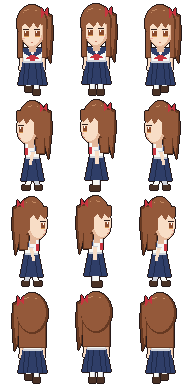
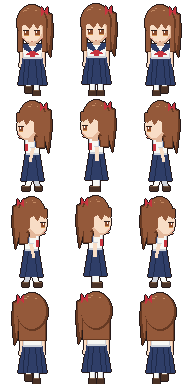
歩行グラフィックを、マップに合わせてやや上から見下ろす角度で描き直す（頭頂の髪を厚く、顔を下寄りに、胴と脚を詰め、靴の甲を見せる）
Claude-Session: https://claude.ai/code/session_017gxvkc2TW4xYgG5MuSL3N1

diff --git a/files.js b/files.js
@@ -2,7 +2,7 @@
 // マップなどを足したら scripts に1行足す（順番どおりに読み込む。main.js は最後）。
 // 版の番号 v は tools/stamp.py が書き換える。
 window.FILES = {
-  v: '20261127022916',
+  v: '20261127023249',
   scripts: [
     'engine/core.js',
     'engine/world.js',

diff --git a/tools/sprites/make_chars.py b/tools/sprites/make_chars.py
@@ -1,5 +1,5 @@
 """キャラクターの歩行グラフィックを一から描いて img/chars/*.png に書き出す（1コマ64×96px、等倍表示）。
-比率は参考のドットを測って合わせた：頭の高さは全身の約4割・頭の幅は肩幅くらい、胴は短め、スカートは裾が広がり、脚は短く靴は太い。
+比率は参考のドットを測って合わせた。マップに合わせて、やや上から見下ろす角度で描く（頭頂の髪が厚く、顔と目は頭の下寄り、首はほぼ見えず、胴と脚は縦に詰まり、靴は甲が見える）。
 
 使い方：python3 tools/sprites/make_chars.py
 横3コマ（左足・立ち・右足）×縦4段（下・左・右・上）。
@@ -32,7 +32,9 @@ class Pen:
         return self.pal[k]
 
     def t(self, x, y):
-        return (round(CX + x * self.k * KX), round(y * self.k))
+        if self.k != 1:  # 頭
+            return (round(CX + x * HEAD_KX), round(y * HEAD_KY))
+        return (round(CX + x * KX), round(body_y(y)))
 
     def b(self, box):
         x0, y0, x1, y1 = box
@@ -66,8 +68,26 @@ class Pen:
 
 
 LIFT = {0: (3, 0), 1: (0, 0), 2: (0, 3)}  # コマごとに（左足、右足）を上げる量
-KX = 0.8  # 横幅の倍率（小さいほど細長い）
-HEAD_K = 1.27  # 頭の倍率（参考の比率：頭の高さは全身の約4割、頭の幅は肩幅と同じくらい）
+KX = 0.8  # 胴から下の横幅の倍率（小さいほど細長い）
+HEAD_KX, HEAD_KY = 1.0, 1.12  # 頭の倍率（横・縦）
+HEAD_K = 1.12
+# やや上から見下ろす角度：胴から下の縦位置を、参考を測った比率に合わせて詰める
+# （あご≒全身の39%、胴は短く、スカートは55〜83%、靴は87〜99%）
+BODY_Y = [(0, 0), (44, 40), (56, 52), (80, 80), (91, 92), (96, 96)]
+
+
+def body_y(y):
+    for (a, fa), (b, fb) in zip(BODY_Y, BODY_Y[1:]):
+        if y <= b:
+            return fa + (fb - fa) * (y - a) / (b - a)
+    return y
+
+
+def shoe(p, box):
+    """靴：上から見下ろすので、甲（上の面）を明るく見せる"""
+    p.rect(box, 'B')
+    x0, y0, x1, y1 = box
+    p.line([(x0 + 1, y0), (x1 - 1, y0)], 'b')  # 頭の倍率（参考の比率：頭の高さは全身の約4割、頭の幅は肩幅と同じくらい）
 
 
 # ---------------- 脚（短め、靴は太く） ----------------
@@ -76,13 +96,13 @@ def legs_front(p, ch, step):
     if ch['gender'] == 'boy':
         p.rect((-9, 56, -1, 84 - la), 'P', 'q')
         p.rect((1, 56, 9, 84 - ra), 'P', 'q')
-        p.rect((-10, 84 - la, -1, 91 - la), 'B')
-        p.rect((1, 84 - ra, 10, 91 - ra), 'B')
+        shoe(p, (-10, 84 - la, -1, 91 - la))
+        shoe(p, (1, 84 - ra, 10, 91 - ra))
     else:
         p.rect((-8, 78, -2, 86 - la), 'W', 'w')
         p.rect((2, 78, 8, 86 - ra), 'W', 'w')
-        p.rect((-9, 86 - la, -1, 91 - la), 'B')
-        p.rect((1, 86 - ra, 9, 91 - ra), 'B')
+        shoe(p, (-9, 86 - la, -1, 91 - la))
+        shoe(p, (1, 86 - ra, 9, 91 - ra))
 
 
 def legs_side(p, ch, step):
@@ -90,22 +110,22 @@ def legs_side(p, ch, step):
     if step == 1:
         if boy:
             p.rect((-5, 56, 5, 84), 'P', 'q')
-            p.rect((-9, 84, 5, 91), 'B')
+            shoe(p, (-9, 84, 5, 91))
         else:
             p.rect((-4, 78, 4, 86), 'W', 'w')
-            p.rect((-8, 86, 4, 91), 'B')
+            shoe(p, (-8, 86, 4, 91))
         return
     back, front = ('q', 'P') if step == 0 else ('P', 'q')
     if boy:
         p.poly([(-2, 56), (5, 56), (10, 84), (4, 84)], back)
-        p.rect((4, 84, 13, 90), 'B')
+        shoe(p, (4, 84, 13, 90))
         p.poly([(-5, 56), (2, 56), (-4, 84), (-10, 84)], front)
-        p.rect((-14, 84, -4, 90), 'B')
+        shoe(p, (-14, 84, -4, 90))
     else:
         p.poly([(1, 78), (6, 78), (9, 86), (4, 86)], 'w')
-        p.rect((4, 86, 11, 90), 'B')
+        shoe(p, (4, 86, 11, 90))
         p.poly([(-5, 78), (0, 78), (-4, 86), (-9, 86)], 'W')
-        p.rect((-13, 86, -4, 90), 'B')
+        shoe(p, (-13, 86, -4, 90))
 
 
 # ---------------- 胴（短め） ----------------
@@ -167,33 +187,33 @@ def head_front(p, ch):
         p.rect((10, 14, 14, 42), 'H', 'h')
         p.poly([(12, 6), (19, 9), (20, 24), (18, 46), (15, 40), (13, 16)], 'h')
         p.poly([(12, 7), (18, 10), (18, 24), (16, 40), (14, 16)], 'H')
-    p.ell((-15, 1, 15, 30), 'H', 'h')
+    p.ell((-15, 1, 15, 33), 'H', 'h')
     if boy:  # とがった髪
         p.poly([(-11, 6), (-15, -1), (-4, 3)], 'H')
         p.poly([(-4, 3), (0, -3), (5, 3)], 'H')
         p.poly([(5, 3), (15, -1), (11, 7)], 'H')
         p.poly([(-15, 13), (-19, 19), (-14, 22)], 'H')
         p.poly([(15, 13), (19, 19), (14, 22)], 'H')
-    p.rect((-3, 31, 3, 37), 's')
-    p.ell((-11, 9, 11, 34), 'S', 's')
+    p.rect((-3, 33, 3, 37), 's')
+    p.ell((-11, 13, 11, 35), 'S', 's')
     if boy:
-        p.poly([(-12, 9), (12, 9), (12, 19), (9, 15), (6, 20), (3, 14), (0, 20), (-3, 14), (-6, 20), (-9, 15), (-12, 19)], 'H')
-        p.rect((-13, 12, -11, 24), 'H')
-        p.rect((11, 12, 13, 24), 'H')
+        p.poly([(-12, 12), (12, 12), (12, 22), (9, 18), (6, 23), (3, 17), (0, 23), (-3, 17), (-6, 23), (-9, 18), (-12, 22)], 'H')
+        p.rect((-13, 14, -11, 27), 'H')
+        p.rect((11, 14, 13, 27), 'H')
         p.px([(-8, 5), (-7, 5), (-6, 5), (-5, 4), (-4, 4), (-9, 6)], 'L')
-        p.px([(-1, 29), (0, 29)], 'm')
+        p.px([(-1, 32), (0, 32)], 'm')
     else:
-        p.poly([(-12, 9), (12, 9), (12, 17), (8, 15), (5, 18), (1, 14), (-3, 18), (-7, 15), (-12, 17)], 'H')
-        p.rect((-13, 12, -11, 26), 'H')
-        p.rect((11, 12, 13, 26), 'H')
+        p.poly([(-12, 12), (12, 12), (12, 20), (8, 18), (5, 21), (1, 17), (-3, 21), (-7, 18), (-12, 20)], 'H')
+        p.rect((-13, 14, -11, 30), 'H')
+        p.rect((11, 14, 13, 30), 'H')
         p.px([(-8, 5), (-7, 5), (-6, 5), (-5, 4), (-4, 4), (-9, 6), (3, 5), (4, 5)], 'L')
         for x0 in (-8, 3):  # 大きな目（まつげ・瞳・光）
-            p.rect((x0 - 1, 20, x0 + 4, 20), 'E')
-            p.rect((x0, 21, x0 + 4, 25), 'I')
-            p.rect((x0, 25, x0 + 4, 25), 'J')
-            p.px([(x0 + 1, 21), (x0 + 1, 22)], 'e')
-        p.px([(-9, 27), (-8, 27), (8, 27), (9, 27)], 'p')
-        p.px([(-1, 30), (0, 30)], 'm')
+            p.rect((x0 - 1, 23, x0 + 4, 23), 'E')
+            p.rect((x0, 24, x0 + 4, 28), 'I')
+            p.rect((x0, 28, x0 + 4, 28), 'J')
+            p.px([(x0 + 1, 24), (x0 + 1, 25)], 'e')
+        p.px([(-9, 30), (-8, 30), (8, 30), (9, 30)], 'p')
+        p.px([(-1, 33), (0, 33)], 'm')
         p.poly([(9, 3), (12, 6), (15, 3), (15, 9), (12, 6), (9, 10)], 'R')
 
 
@@ -205,40 +225,40 @@ def head_side(p, ch):
         p.poly([(2, 12), (12, 12), (11, 41), (5, 41)], 'H')
         p.poly([(11, 6), (18, 9), (19, 24), (16, 46), (13, 36)], 'h')
         p.poly([(11, 7), (17, 10), (17, 24), (15, 42), (13, 34)], 'H')
-    p.ell((-13, 1, 14, 31), 'H', 'h')
+    p.ell((-13, 1, 14, 33), 'H', 'h')
     if boy:
         p.poly([(4, 3), (15, -1), (11, 8)], 'H')
         p.poly([(10, 11), (18, 10), (12, 18)], 'H')
         p.poly([(-8, 4), (-6, -2), (0, 3)], 'H')
         p.poly([(8, 23), (14, 26), (8, 29)], 'H')
-    p.rect((-4, 31, 1, 37), 's')
-    p.ell((-15, 10, 4, 34), 'S', 's')
-    p.poly([(2, 9), (14, 9), (14, 28), (7, 31), (2, 26)], 'H')
+    p.rect((-4, 33, 1, 37), 's')
+    p.ell((-15, 13, 4, 35), 'S', 's')
+    p.poly([(2, 11), (14, 11), (14, 30), (7, 33), (2, 28)], 'H')
     if boy:
-        p.poly([(-15, 9), (3, 9), (2, 18), (-1, 13), (-4, 19), (-7, 13), (-10, 18), (-13, 14), (-15, 16)], 'H')
+        p.poly([(-15, 12), (3, 12), (2, 21), (-1, 16), (-4, 22), (-7, 16), (-10, 21), (-13, 17), (-15, 19)], 'H')
         p.px([(-4, 5), (-3, 5), (-2, 5), (-1, 4)], 'L')
-        p.px([(-13, 29), (-12, 29)], 'm')
+        p.px([(-13, 32), (-12, 32)], 'm')
     else:
-        p.poly([(-15, 9), (3, 9), (2, 17), (-2, 14), (-6, 18), (-9, 14), (-13, 17), (-15, 16)], 'H')
+        p.poly([(-15, 12), (3, 12), (2, 20), (-2, 17), (-6, 21), (-9, 17), (-13, 20), (-15, 19)], 'H')
         p.px([(-4, 5), (-3, 5), (-2, 5), (-1, 4), (5, 5)], 'L')
-        p.rect((-14, 20, -9, 20), 'E')
-        p.rect((-13, 21, -10, 25), 'I')
-        p.rect((-13, 25, -10, 25), 'J')
-        p.px([(-12, 21), (-12, 22)], 'e')
-        p.px([(-14, 27), (-13, 27)], 'p')
-        p.px([(-13, 30), (-12, 30)], 'm')
+        p.rect((-14, 23, -9, 23), 'E')
+        p.rect((-13, 24, -10, 28), 'I')
+        p.rect((-13, 28, -10, 28), 'J')
+        p.px([(-12, 24), (-12, 25)], 'e')
+        p.px([(-14, 30), (-13, 30)], 'p')
+        p.px([(-13, 33), (-12, 33)], 'm')
         p.poly([(8, 3), (11, 6), (14, 3), (14, 8), (11, 6), (8, 9)], 'R')
 
 
 def head_back(p, ch):
     p.k = HEAD_K
     boy = ch['gender'] == 'boy'
-    p.rect((-3, 28, 3, 37), 's')
+    p.rect((-3, 32, 3, 37), 's')
     if not boy:
         p.rect((-13, 16, 13, 43), 'H', 'h')
         p.poly([(-12, 6), (-19, 9), (-20, 24), (-18, 46), (-15, 40), (-13, 16)], 'h')
         p.poly([(-12, 7), (-18, 10), (-18, 24), (-16, 40), (-14, 16)], 'H')
-    p.ell((-15, 1, 15, 32), 'H', 'h')
+    p.ell((-15, 1, 15, 34), 'H', 'h')
     if boy:
         p.poly([(-11, 6), (-15, -1), (-4, 3)], 'H')
         p.poly([(-4, 3), (0, -3), (5, 3)], 'H')
@@ -299,7 +319,7 @@ CHARS = {
         'pal': {
             'H': '#3a3c44', 'h': '#25272d', 'L': '#6a6e7a',
             'S': '#f7dcc4', 's': '#e2b597', 'm': '#c9826e',
-            'W': '#f7f7f3', 'w': '#cdd0d8', 'P': '#2f3242', 'q': '#1f2130', 'B': '#2a2220',
+            'W': '#f7f7f3', 'w': '#cdd0d8', 'P': '#2f3242', 'q': '#1f2130', 'B': '#2a2220', 'b': '#5a4a42',
         },
     },
     'yui': {
@@ -309,7 +329,7 @@ CHARS = {
             'S': '#f8ddc6', 's': '#e4b89b', 'p': '#f4aa9e', 'm': '#c9806c',
             'E': '#2e1d1a', 'I': '#8a4a2c', 'J': '#d4924f', 'e': '#ffffff',
             'W': '#f7f7f3', 'w': '#d0d3da', 'N': '#2f3e68', 'R': '#c8343f',
-            'K': '#2f3e68', 'k': '#1f2a4a', 'B': '#4a3226',
+            'K': '#2f3e68', 'k': '#1f2a4a', 'B': '#4a3226', 'b': '#7a5a44',
         },
     },
 }

diff --git a/CLAUDE.md b/CLAUDE.md
@@ -10,7 +10,7 @@
 - 校舎（廊下8枚と部屋の型）は `tools/gen_school.py` で生成する。生成した `data/maps/school_*.js` は直接直さず、スクリプトを直して作り直す。お話のイベントは `data/story.js` に `G.addEvents` で足す（`at: '扉の名前'` で位置を決められる）。見取り図の施設名のうち学校が特定されそうな名前は一般的な名前に変える
 - 参考にした市販ゲームのファイル（データ・画像・音・シナリオ）はこのリポジトリに入れない
 - タイル素材（ドット絵世界）は二次配布禁止。元のPNGは入れず、`tools/encode_tileset.py` で変換した `data/tilesets/*.js` だけを入れる。タイトル画面の著作権表示（system.js の credits）は消さない
-- キャラの歩行グラフィックは `tools/sprites/make_chars.py` で一から描いている（1コマ64×96px・等倍。比率は参考のドットを測って合わせる（頭の高さは全身の約4割・頭の幅は肩幅くらい、胴は短め、脚は短く靴は太い）。見た目の印象で描かず、参考があれば必ず測ってから描く。顔・髪・目・胴などの部品を図形で描き、輪郭は自動。色はパレット）。男子は目を描かない、女子は大きな目、という描き分けが好み。直したらこれを動かして `img/chars/*.png` を作り直す。参考素材は写さない
+- キャラの歩行グラフィックは `tools/sprites/make_chars.py` で一から描いている（1コマ64×96px・等倍。比率は参考のドットを測って合わせる。マップに合わせ、やや上から見下ろす角度で描く（頭頂の髪が厚く、顔と目は頭の下寄り、首はほぼ見えず、胴と脚は縦に詰まり、靴は甲が見える。頭の高さは全身の約4割・頭の幅は肩幅くらい、胴は短め、脚は短く靴は太い）。見た目の印象で描かず、参考があれば必ず測ってから描く。顔・髪・目・胴などの部品を図形で描き、輪郭は自動。色はパレット）。男子は目を描かない、女子は大きな目、という描き分けが好み。直したらこれを動かして `img/chars/*.png` を作り直す。参考素材は写さない
 - 字体：ゲームの文字は M+ 1m（`fonts/mplus-1m-regular.ttf`、M+ FONTS は自由に使用・配布できる）。`G.font()` と css/style.css で指定している。収録外の文字（♪など）は端末のフォントになる
 - 公開は gh-pages ブランチから。更新したら、まず `python3 tools/stamp.py`（files.js の版の番号を新しくする。ブラウザが古いファイルを使い回して新旧が混ざるのを防ぐ）、コミットして `git push origin main main:gh-pages` で両方に送る。そのあと `gh api repos/nzanke/game-test/actions/runs` で「pages build and deployment」が新しいコミットで completed success になったのを確かめてから報告する。ビルドが走らないときは空のコミットを送り直す（Pages 設定のAPIは作業環境から使えない）
 - やりとりと説明は日本語で
